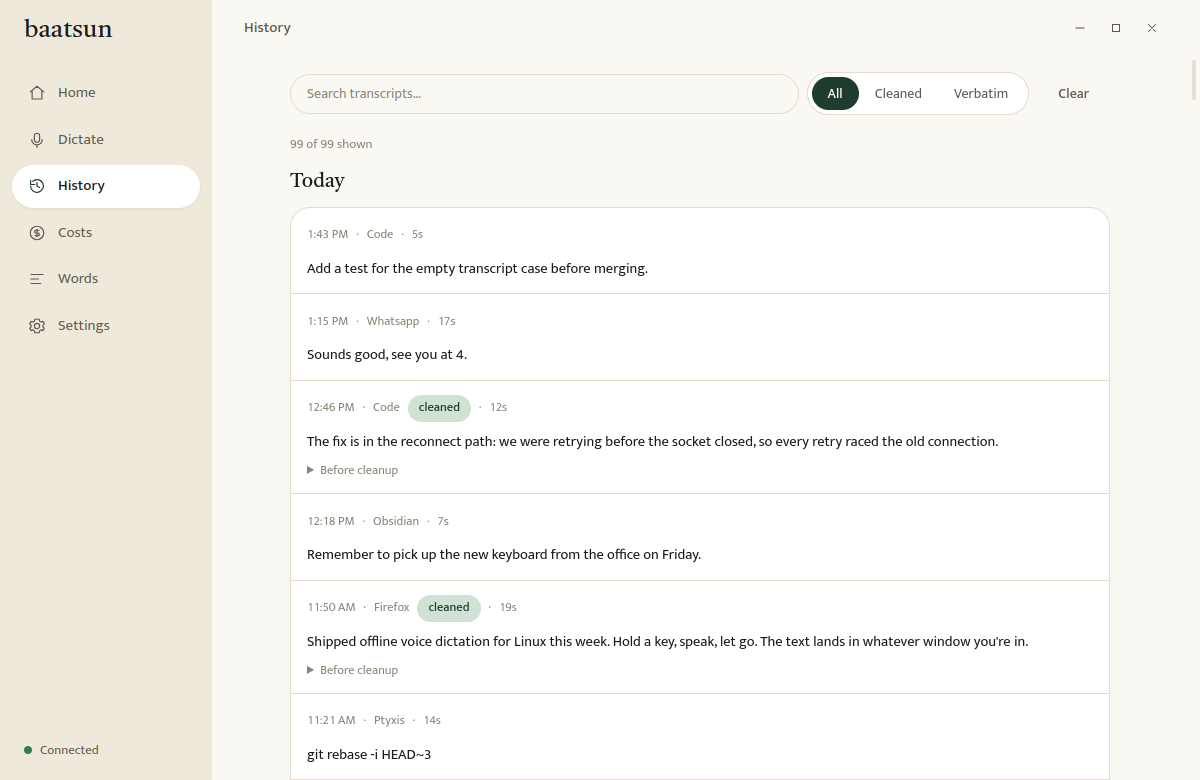
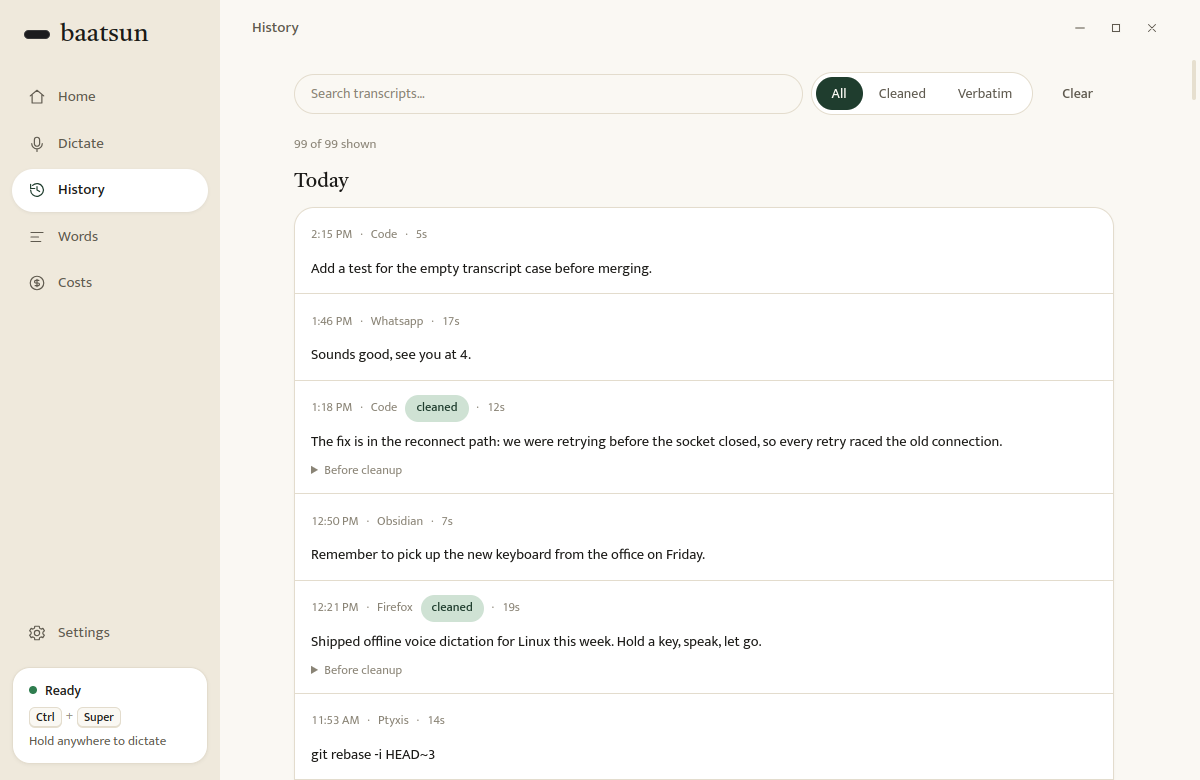
Sidebar: pill mark, Settings at the foot, and a live status card
The sidebar was a flat list of six pages over an empty middle, with a
small "Connected" line at the bottom that said nothing you could act on.

- Brand: a small dark pill beside the serif wordmark. It's the same object
  that sits on your screen, so the mark is the product.
- Grouping: the everyday pages (Home, Dictate, History, Words, Costs) at
  the top; Settings at the foot of the sidebar, where people look for it.
- Status card (replaces "Connected"): Ready with your actual hotkey as
  keycaps and "Hold" or "Press" anywhere to dictate (depending on the
  activation mode); Listening with a pulsing red dot and "Let go to
  transcribe"; Transcribing with a spinner and "On your CPU" or "With
  ElevenLabs"; Daemon offline, reconnecting. Clicking it opens Dictate.
  It has one height in every state, so Settings above it doesn't jump
  each time a dictation starts and ends.
- Dictate in the nav shows the live state from any page: a red dot while
  listening, a spinner while transcribing.
- The shell reads the config for the hotkey and activation. It re-reads
  when the daemon reconnects and when Settings dispatches
  'baatsun:config-saved' after a save.

Checked in all four states, and with `vite build`. The website's four
screenshots are re-taken with the new sidebar.

diff --git a/electron/src/renderer/App.jsx b/electron/src/renderer/App.jsx
@@ -1,4 +1,4 @@
-import React, { useRef, useState } from 'react'
+import React, { useEffect, useRef, useState } from 'react'
 import { useDaemon } from './lib/useDaemon.js'
 import Home from './pages/Home.jsx'
 import Dictate from './pages/Dictate.jsx'
@@ -22,10 +22,112 @@ const PAGES = [
   { id: 'home', label: 'Home', Component: Home },
   { id: 'dictate', label: 'Dictate', Component: Dictate },
   { id: 'history', label: 'History', Component: History },
-  { id: 'costs', label: 'Costs', Component: Costs },
   { id: 'words', label: 'Words', Component: Words },
+  { id: 'costs', label: 'Costs', Component: Costs },
   { id: 'settings', label: 'Settings', Component: Settings },
 ]
+// The everyday pages sit at the top; Settings sits at the foot of the
+// sidebar, where people look for it and where it can't crowd the rest.
+const MAIN = PAGES.filter((p) => p.id !== 'settings')
+
+const HOTKEY_KEYS = {
+  'ctrl+super': ['Ctrl', 'Super'],
+  'ctrl+alt': ['Ctrl', 'Alt'],
+  'alt+super': ['Alt', 'Super'],
+  'ctrl+shift': ['Ctrl', 'Shift'],
+}
+
+function Keycaps({ keys }) {
+  return (
+    <span className="inline-flex items-center gap-1 align-middle">
+      {keys.map((k, i) => (
+        <React.Fragment key={k}>
+          {i > 0 && <span className="text-faint">+</span>}
+          <kbd className="rounded-[6px] border border-line bg-cream px-1.5 py-px font-sans text-[12px] font-medium text-ink shadow-[0_1px_0_var(--color-sand-2)]">
+            {k}
+          </kbd>
+        </React.Fragment>
+      ))}
+    </span>
+  )
+}
+
+/**
+ * What the daemon is doing right now, at the foot of the sidebar.
+ *
+ * Replaces a bare "Connected": the useful things to know at a glance are
+ * whether you can dictate, how (your actual hotkey), and whether it's
+ * listening. Clicking it opens Dictate.
+ */
+function StatusCard({ daemon, config, onOpen }) {
+  const state = daemon.state.state
+  const keys = HOTKEY_KEYS[config?.hotkey] || HOTKEY_KEYS['ctrl+super']
+  const toggle = config?.activation === 'toggle'
+
+  let dot = 'bg-good'
+  let title = 'Ready'
+  let body = (
+    <>
+      <Keycaps keys={keys} />
+      <span className="mt-1.5 block">{toggle ? 'Press' : 'Hold'} anywhere to dictate</span>
+    </>
+  )
+  if (!daemon.connected) {
+    dot = 'bg-faint'
+    title = 'Daemon offline'
+    body = 'Reconnecting…'
+  } else if (state === 'listening') {
+    dot = 'bg-live animate-live'
+    title = 'Listening'
+    body = toggle ? 'Press the hotkey again to stop' : 'Let go to transcribe'
+  } else if (state === 'transcribing') {
+    dot = null
+    title = 'Transcribing'
+    body = config?.stt_backend === 'elevenlabs' ? 'With ElevenLabs' : 'On your CPU'
+  }
+
+  return (
+    <button
+      type="button"
+      onClick={onOpen}
+      // One height for every state, so Settings above it doesn't jump each
+      // time a dictation starts and ends.
+      className="min-h-[100px] w-full rounded-[18px] border border-line bg-card px-4 py-3 text-left shadow-[0_1px_3px_rgba(27,26,23,0.06)] transition-colors hover:border-sand-2"
+    >
+      <span className="flex items-center gap-2 text-[14px] font-medium text-ink">
+        {dot ? (
+          <span className={`h-2 w-2 rounded-full ${dot}`} />
+        ) : (
+          <span className="h-3 w-3 animate-spin rounded-full border-2 border-green/25 border-t-green" />
+        )}
+        {title}
+      </span>
+      <span className="mt-1.5 block text-[13px] leading-snug text-muted" aria-live="polite">
+        {body}
+      </span>
+    </button>
+  )
+}
+
+function NavItem({ id, label, current, onSelect, marker }) {
+  const on = id === current
+  return (
+    <button
+      type="button"
+      onClick={() => onSelect(id)}
+      aria-current={on ? 'page' : undefined}
+      className={`flex items-center gap-3 rounded-full px-4 py-2.5 text-[15px] transition-colors ${
+        on
+          ? 'bg-card font-medium text-ink shadow-[0_1px_3px_rgba(27,26,23,0.08)]'
+          : 'text-muted hover:bg-sand-2/60 hover:text-ink'
+      }`}
+    >
+      <Icon name={id} className={`h-[18px] w-[18px] ${on ? 'text-green' : ''}`} />
+      <span className="flex-1 text-left">{label}</span>
+      {marker}
+    </button>
+  )
+}
 
 const ICONS = {
   home: 'M3 10.5 12 3l9 7.5M5.5 9v11h13V9',
@@ -135,41 +237,63 @@ export default function App() {
   }
   const daemon = useDaemon()
   const active = PAGES.find((p) => p.id === page) || PAGES[0]
+
+  // The sidebar's status card shows the hotkey and activation the daemon is
+  // actually using: re-read when it reconnects (it restarts after those
+  // change) and when Settings says it saved.
+  const [config, setConfig] = useState(null)
+  useEffect(() => {
+    const read = () =>
+      window.baatsun
+        .loadConfig()
+        .then(({ config: c }) => setConfig(c))
+        .catch(() => {})
+    read()
+    window.addEventListener('baatsun:config-saved', read)
+    return () => window.removeEventListener('baatsun:config-saved', read)
+  }, [daemon.connected])
+
+  // Dictate carries the live state in the nav, so it shows from any page.
+  const recState = daemon.connected ? daemon.state.state : 'idle'
+  const dictateMarker =
+    recState === 'listening' ? (
+      <span className="animate-live h-2 w-2 rounded-full bg-live" aria-label="Listening" />
+    ) : recState === 'transcribing' ? (
+      <span
+        className="h-3 w-3 animate-spin rounded-full border-2 border-green/25 border-t-green"
+        aria-label="Transcribing"
+      />
+    ) : null
   const { Component } = active
 
   return (
     <div className="flex h-full">
-      <nav className="drag flex w-[212px] shrink-0 flex-col bg-sand">
-        <div className="flex h-14 items-center px-6 pt-1">
+      <nav className="drag flex w-[220px] shrink-0 flex-col bg-sand" aria-label="Pages">
+        {/* The mark is the product: the same dark pill that sits on your screen. */}
+        <div className="flex h-16 items-center gap-2.5 px-6 pt-1">
+          <span
+            aria-hidden="true"
+            className="h-[9px] w-[26px] rounded-full bg-[#1c1c1e] shadow-[inset_0_0_0_1px_rgba(255,255,255,0.12)]"
+          />
           <span className="font-serif text-[25px] leading-none text-ink">baatsun</span>
         </div>
 
-        <div className="no-drag flex flex-1 flex-col gap-1 px-3 py-4">
-          {PAGES.map(({ id, label }) => (
-            <button
+        <div className="no-drag flex flex-1 flex-col gap-1 px-3 pt-3">
+          {MAIN.map(({ id, label }) => (
+            <NavItem
               key={id}
-              type="button"
-              onClick={() => go(id)}
-              aria-current={id === page ? 'page' : undefined}
-              className={`flex items-center gap-3 rounded-full px-4 py-2.5 text-[15px] transition-colors ${
-                id === page
-                  ? 'bg-card font-medium text-ink shadow-[0_1px_3px_rgba(27,26,23,0.08)]'
-                  : 'text-muted hover:bg-sand-2/60 hover:text-ink'
-              }`}
-            >
-              <Icon name={id} className={`h-[18px] w-[18px] ${id === page ? 'text-green' : ''}`} />
-              {label}
-            </button>
+              id={id}
+              label={label}
+              current={page}
+              onSelect={go}
+              marker={id === 'dictate' ? dictateMarker : null}
+            />
           ))}
         </div>
 
-        <div className="no-drag px-6 pb-5 text-[13px] text-muted">
-          <span
-            className={`mr-2 inline-block h-2 w-2 rounded-full align-middle ${
-              daemon.connected ? 'bg-good' : 'bg-faint'
-            }`}
-          />
-          {daemon.connected ? 'Connected' : 'Reconnecting…'}
+        <div className="no-drag flex flex-col gap-3 px-3 pb-4">
+          <NavItem id="settings" label="Settings" current={page} onSelect={go} />
+          <StatusCard daemon={daemon} config={config} onOpen={() => go('dictate')} />
         </div>
       </nav>
 

diff --git a/electron/src/renderer/pages/Settings.jsx b/electron/src/renderer/pages/Settings.jsx
@@ -571,6 +571,8 @@ export default function Settings({ setGuard }) {
       // Saved from here on, whatever the restart does.
       mark('save', 'done')
       await load()
+      // The sidebar shows the hotkey and activation; tell it they may have changed.
+      window.dispatchEvent(new Event('baatsun:config-saved'))
       if (restart) {
         const ok = await restartStep()
         if (ok !== true) return finish('partial', ok)
